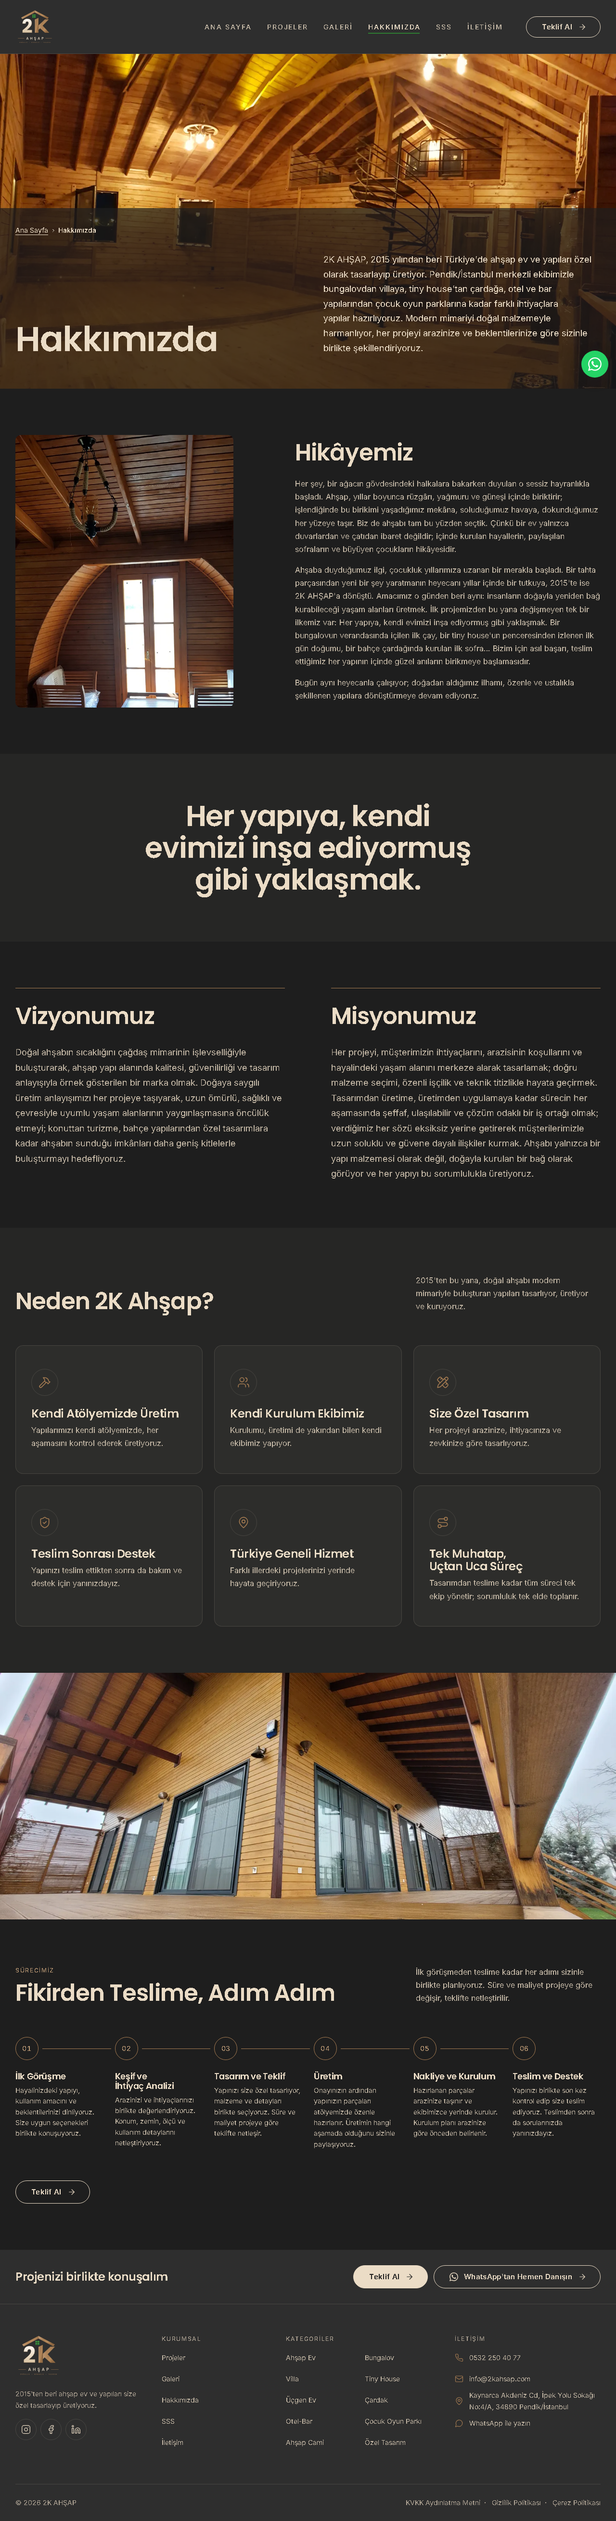
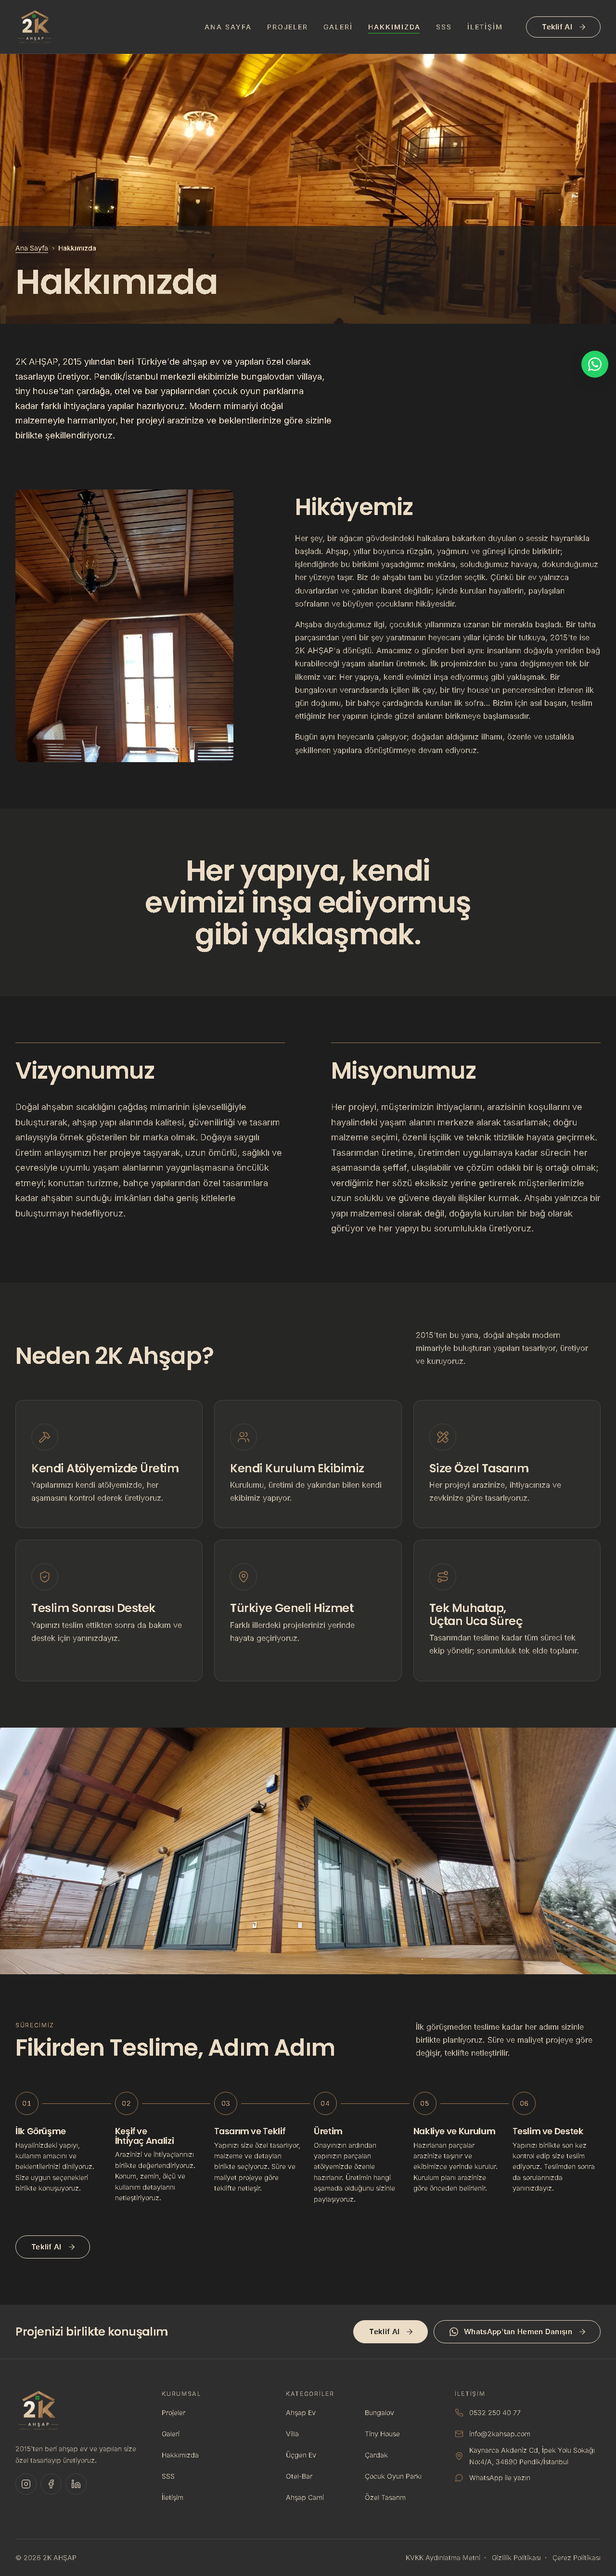
Hakkımızda açılışını ince başlık bandına çevir, tanıtım metnini fotoğrafın altına al
- Fotoğrafın altındaki bantta yalnızca breadcrumb ve H1; bant fotoğrafın en az üçte ikisini açık bırakır ve
  H1 her ekranda ilk ekranda görünür (önceden 1366×657'de ekran dışında kalıyordu)
- Tanıtım metni düz gece zeminde; fotoğraf kutusu mobil 60svh, ≥ 768px 55svh, ≥ 1024px 70svh
- marka-stili'ndeki Hakkımızda istisnası güncellendi (müşteri seçimi a)
- Hakkımızda görsel referansları yenilendi; önce/a/b görselleri docs/hakkimizda/acilis/

diff --git a/.claude/skills/marka-stili/SKILL.md b/.claude/skills/marka-stili/SKILL.md
@@ -245,7 +245,7 @@ Hareket sakin ve tek seferliktir; içeriği öne çıkarır, dikkat dağıtmaz. 
 - Hero fotoğrafları `scripts/hero-gorseli.mjs` ile üretilir (kadraj, sıcak renk düzeltmesi, netlik; kaynak dosyaya dokunulmaz).
 - Hero görseli LCP öğesidir: `loading="eager"`, `fetchpriority="high"`, WebP/AVIF, `srcset` ile boyutlandırılmış. Lazy-load yapılmaz.
 - Alt sayfalarda (kategori, proje) daha kısa bir başlık bandı (~40svh) kullanılır; zemini ara bölüm tonudur.
-- **Hakkımızda istisnası** (müşteri onaylı, 15 Ekim 2026; `docs/hakkimizda/yeniden-tasarim/`): Açılış tam genişlikte bir proje fotoğrafıdır (~80svh). H1 ve tanıtım metni alttaki bantta durur. Bandın zemini düz gece karartmasıdır (`--color-karartma`); gradyan kullanılmaz. Telefonda bandın üstünde fotoğrafın en az üçte biri görünür kalır. Header antrasit kalır.
+- **Hakkımızda istisnası** (müşteri onaylı, 15 Ekim 2026; `docs/hakkimizda/yeniden-tasarim/`, açılış bandı `docs/hakkimizda/acilis/`): Açılış tam genişlikte bir proje fotoğrafıdır (mobil 60svh, ≥ 768px 55svh, ≥ 1024px 70svh). Fotoğrafın altındaki ince bantta yalnızca breadcrumb ve H1 durur; bant fotoğrafın en az üçte ikisini açık bırakır ve H1 her ekranda ilk ekranda görünür. Bandın zemini düz gece karartmasıdır (`--color-karartma`); gradyan kullanılmaz. Tanıtım metni fotoğrafın üstünde değil, altında düz gece zeminde durur. Header antrasit kalır.
 
 ### Header (her sayfada)
 - Koyu: ana sayfada hero fotoğrafının üzerinde şeffaf; diğer sayfalarda antrasit zemin. Kaydırınca sabitlenen header da koyu kalır.

diff --git a/docs/hakkimizda/acilis/README.md b/docs/hakkimizda/acilis/README.md
@@ -1,0 +1,18 @@
+# Hakkımızda açılışı (15 Ekim 2026, müşteri onaylı: a)
+
+## Sorun
+
+Uzun tanıtım paragrafı fotoğrafın üstündeki düz karartmalı bandın içindeydi. Bant fotoğrafın yarısını kaplıyor,
+sert üst kenarı fotoğrafı rastgele bir yerden kesiyordu ("kaymış karartma"). H1 bandın en altına yaslıydı;
+1366×657 dizüstü ekranda H1'in alt kısmı ilk ekranın dışında kalıyordu.
+
+## Seçenekler
+
+- **a (uygulandı):** Fotoğrafın altındaki ince bantta yalnızca breadcrumb ve H1. Bant fotoğrafın en az üçte ikisini
+  açık bırakır. Tanıtım metni fotoğrafın altında, düz gece zeminde. Fotoğraf kutusu: mobil 60svh, ≥ 768px 55svh,
+  ≥ 1024px 70svh.
+- **b:** Bölünmüş açılış, karartmasız (masaüstünde metin solda, fotoğraf sağ yarıda; telefonda fotoğraf üstte).
+
+## Görseller
+
+Gerçek ilk ekran boyları (tarayıcı çubukları düşülmüş): `{375x553,412x787,768x1024,1366x657,1920x950}-{once,a,b}.png`
